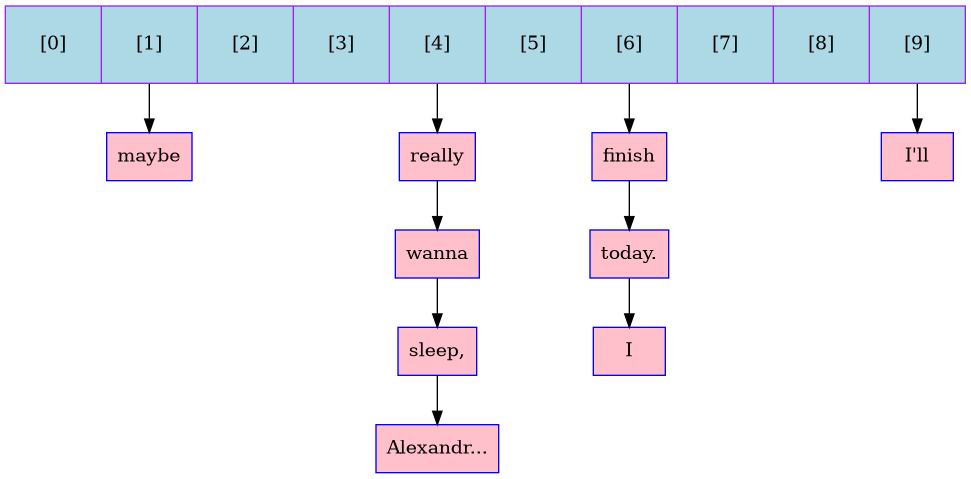
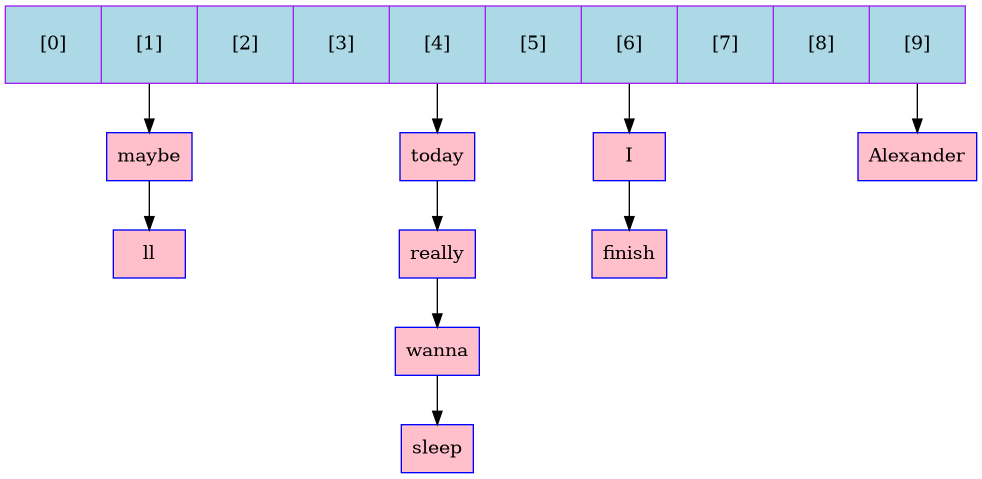
fixies && upd hashT_fill

diff --git a/src/hashtbl.c b/src/hashtbl.c
@@ -1,6 +1,7 @@
 #include <stdio.h>
 #include <stdlib.h>
 #include <assert.h>
+#include <ctype.h>
 
 #include "hashtbl.h"
 #include "file.h"
@@ -63,21 +64,29 @@ int hashT_fill (struct HashTable_t* hashT_ptr, const char* filename)
     char* buffer = MakeBuffer (filename, &numb_symb);
     char* old_buffer = buffer;
 
-    long i = 0;
-    while (i < numb_symb)
+    char* ptr = buffer;
+    while (*ptr)
     {
-        char word[32] = {};
-        long n = 0;
+        while (*ptr && !isalpha(*ptr) && !isdigit(*ptr))
+        {
+            *ptr = '\0';
+            ptr++;
+        }
 
-        sscanf (buffer, " %s %ln ", word, &n);
-        i += n;
-        buffer += n;
+        if (!*ptr) break;
 
-        //fprintf (stderr, "In hashT_fill:\n\t\t>>> %s ", word);
+        char* word = ptr;
+        while (*ptr && (isalpha(*ptr) || isdigit(*ptr)))
+            ptr++;
+
+        if (*ptr)
+        {
+            *ptr = '\0';
+            ptr++;
+        }
 
         uint32_t hash = 0;
         int status = hashT_search (hashT_ptr, word, &hash);
-        //fprintf (stderr, "status in search: <%d>\n", status);
         if (status)
             hashT_insert (hashT_ptr, word, &hash);
 
@@ -101,8 +110,8 @@ int hashT_search (struct HashTable_t* hashT_ptr, const char* data, uint32_t* has
     if (node == NULL)
         return 1;
 
-    int status = list_search (node, data);
-    if (!status)
+    struct Node_t* found_node = list_search (node, data);
+    if (found_node == NULL)
         return 1;
 
     return 0;

diff --git a/src/list.c b/src/list.c
@@ -26,10 +26,9 @@ struct Node_t* node_insert (struct Node_t* parent, const char* data)
         return NULL;
     }
 
-    memcpy (word, data, data_len + 1);
+    memcpy (word, data, data_len);
 
     new_node->data = word;
-    new_node->next = NULL;
 
     if (parent != NULL)
         parent->next = new_node;
@@ -37,37 +36,32 @@ struct Node_t* node_insert (struct Node_t* parent, const char* data)
     return new_node;
 }
 
-int list_dtor (struct Node_t* node)
+void list_dtor (struct Node_t* node)
 {
     assert (node);
 
-    struct Node_t* curr = node;
-
-    while (curr)
+    while (node)
     {
-        struct Node_t* f_free = curr;
-        curr = curr->next;
+        struct Node_t* f_free = node;
+        node = node->next;
 
         free (f_free->data);
         free (f_free);
     }
-
-    return NO_ERRORS;
 }
 
-int list_search (struct Node_t* node, const char* data)
+struct Node_t* list_search (struct Node_t* node, const char* data)
 {
     assert (node);
     assert (data);
 
-    struct Node_t* curr = node;
-    while (curr != NULL)
+    while (node)
     {
-        if (strcmp (curr->data, data) == 0)
-            return 1;
+        if (strcmp (node->data, data) == 0)
+            return node;
 
-        curr = curr->next;
+        node = node->next;
     }
 
-    return 0;
+    return NULL;
 }

diff --git a/include/list.h b/include/list.h
@@ -9,8 +9,8 @@ struct Node_t
 
 struct Node_t* node_insert (struct Node_t* parent, const char* data);
 
-int list_dtor (struct Node_t* node);
+void list_dtor (struct Node_t* node);
 
-int list_search (struct Node_t* node, const char* data);
+struct Node_t* list_search (struct Node_t* node, const char* data);
 
 #endif // LIST_H
